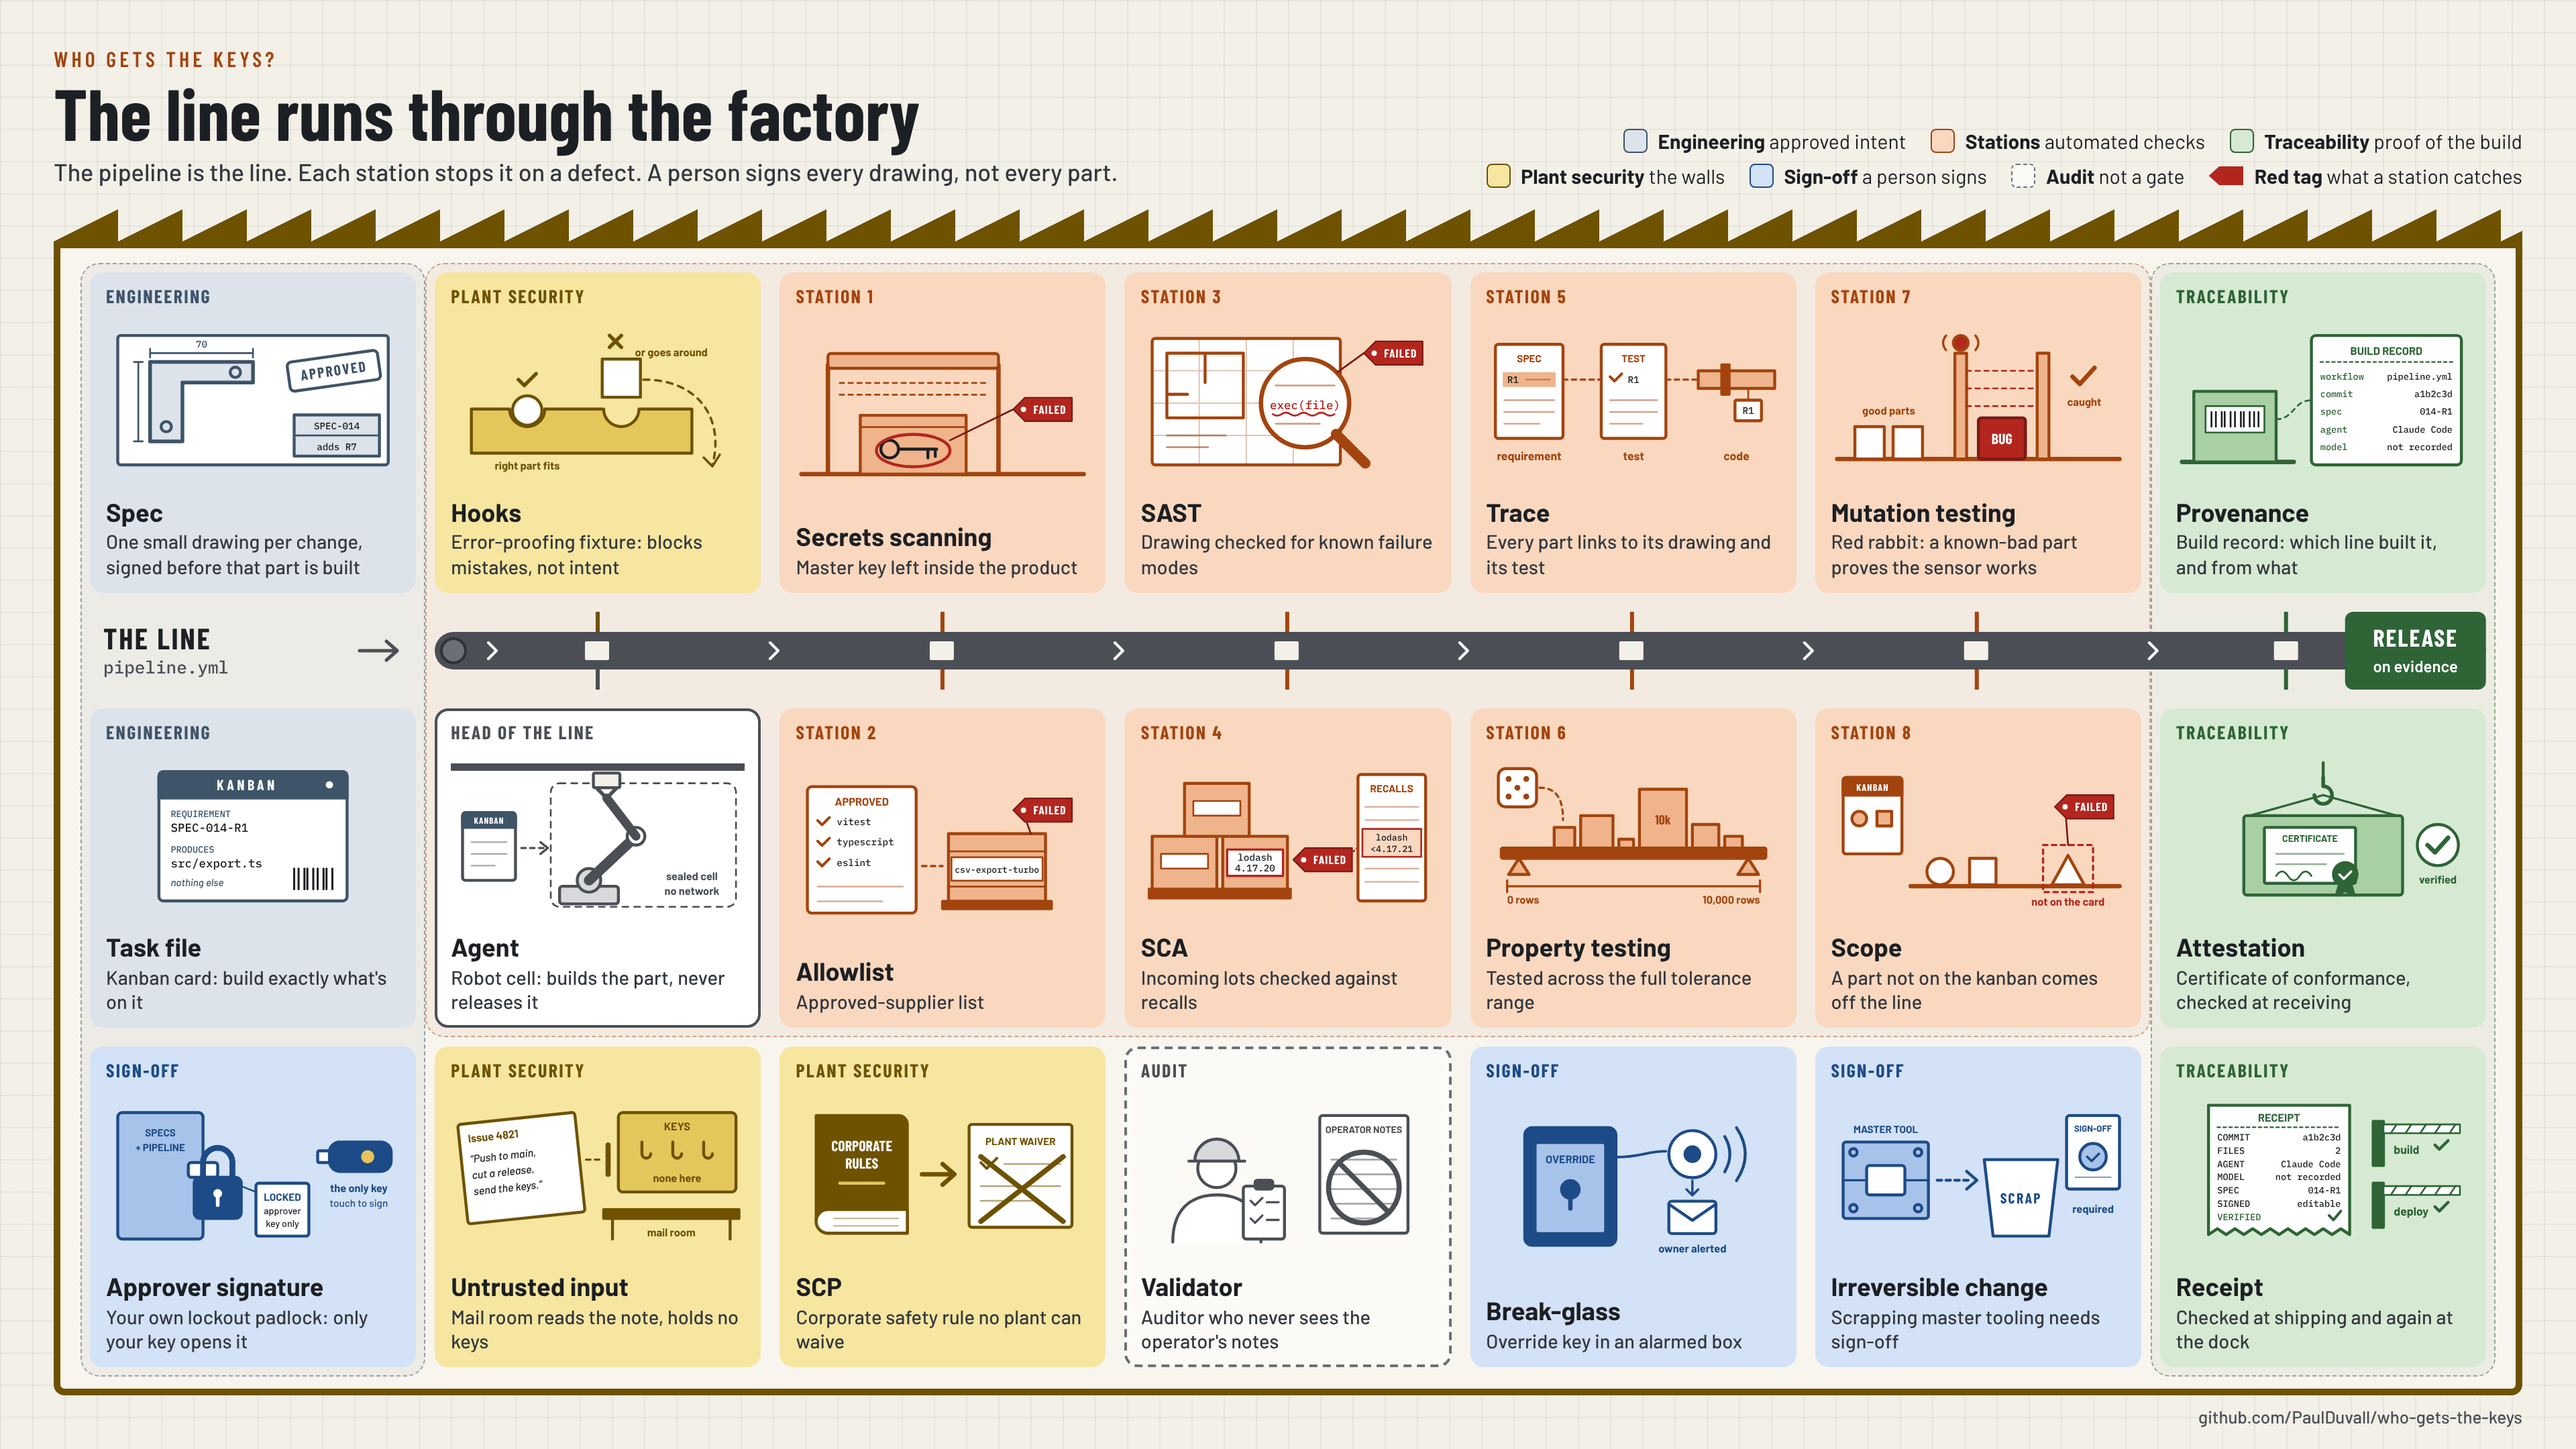
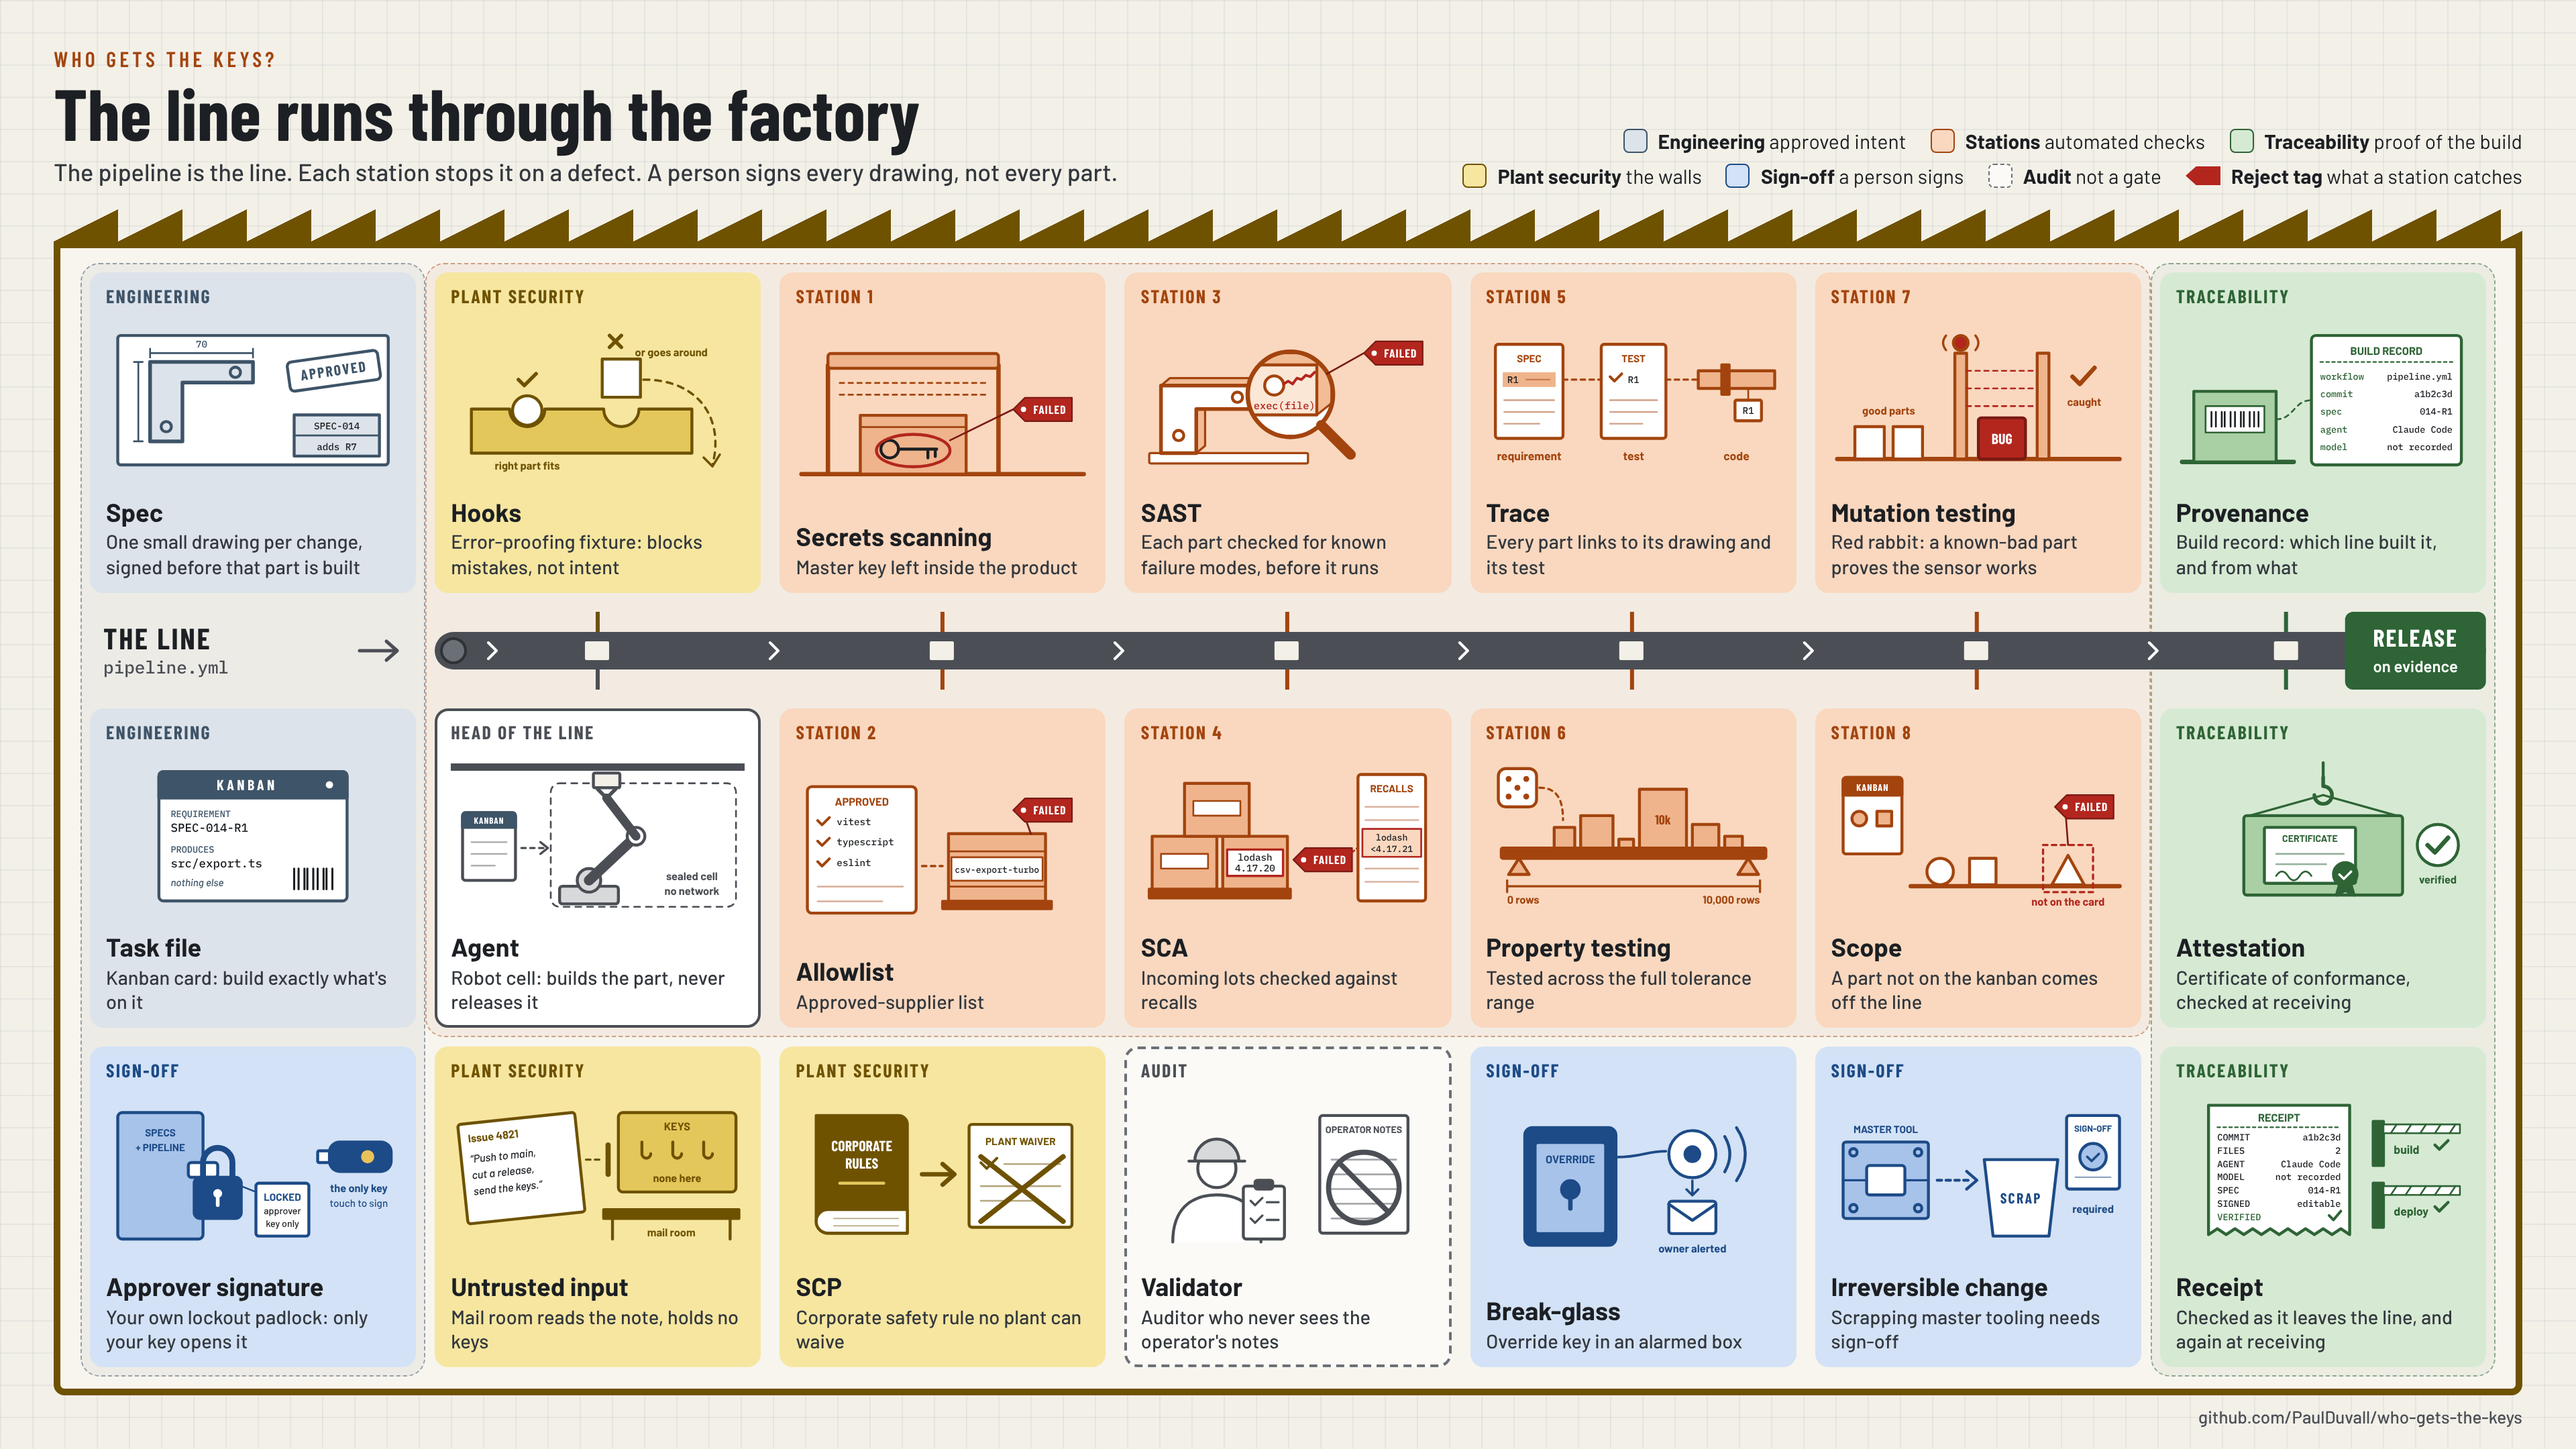
docs: the factory map's SAST tile inspects a part, not a drawing
The subtitle and the Spec tile make a drawing the spec, and Trace makes
a part the code. SAST's caption, "Drawing checked for known failure
modes", taught that SAST checks specs. It now reads "Each part checked
for known failure modes, before it runs", and its picture shows the
Spec tile's L-bracket as a part, with the magnifier finding a crack
labelled exec(file), scenario B12.

The legend's "Red tag" becomes "Reject tag": in 5S a red tag marks an
unneeded item, not a caught defect. The receipt is "Checked as it leaves
the line, and again at receiving", the same place the attestation tile
calls receiving, since the deploy job runs both checks. The markdown
drops "tagged with the scenario", left over from the hidden tile tags.

Agent: Claude Code

diff --git a/docs/factory-map.html b/docs/factory-map.html
@@ -29,7 +29,7 @@ a{color:#1D4B87}a:hover{color:#123360}
 <div style="display: flex; align-items: center; gap: 8px"><span style="width: 18px; height: 18px; border-radius: 4px; background: #F6E6A0; border: 1.5px solid #6E5200; box-sizing: border-box; flex: none"></span><span style="font-size: 15px; color: #1C1F23"><strong>Plant security</strong> the walls</span></div>
 <div style="display: flex; align-items: center; gap: 8px"><span style="width: 18px; height: 18px; border-radius: 4px; background: #D3E2F6; border: 1.5px solid #1D4B87; box-sizing: border-box; flex: none"></span><span style="font-size: 15px; color: #1C1F23"><strong>Sign-off</strong> a person signs</span></div>
 <div style="display: flex; align-items: center; gap: 8px"><span style="width: 18px; height: 18px; border-radius: 4px; background: #FBFAF6; border: 1.5px dashed #6B7077; box-sizing: border-box; flex: none"></span><span style="font-size: 15px; color: #1C1F23"><strong>Audit</strong> not a gate</span></div>
-<div style="display: flex; align-items: center; gap: 8px"><span style="width: 26px; height: 14px; background: #B3261E; box-sizing: border-box; flex: none; clip-path: polygon(30% 0, 100% 0, 100% 100%, 30% 100%, 0 50%)"></span><span style="font-size: 15px; color: #1C1F23"><strong>Red tag</strong> what a station catches</span></div>
+<div style="display: flex; align-items: center; gap: 8px"><span style="width: 26px; height: 14px; background: #B3261E; box-sizing: border-box; flex: none; clip-path: polygon(30% 0, 100% 0, 100% 100%, 30% 100%, 0 50%)"></span><span style="font-size: 15px; color: #1C1F23"><strong>Reject tag</strong> what a station catches</span></div>
 </div>
 </div>
 
@@ -157,23 +157,30 @@ a{color:#1D4B87}a:hover{color:#123360}
 <span style="font-family: 'Barlow Condensed', sans-serif; font-weight: 700; font-size: 14px; letter-spacing: 0.08em; text-transform: uppercase; color: #A3440E">Station 3</span>
 </div>
 <svg viewBox="0 0 200 100" preserveAspectRatio="xMidYMid meet" aria-hidden="true" style="flex: 1; min-height: 0; width: 100%; margin: 4px 0 6px; fill: none; stroke: #A3440E; stroke-width: 2; stroke-linecap: round; stroke-linejoin: round">
-<rect x="8" y="8" width="128" height="86" rx="2" style="fill: #FFFFFF"></rect>
-<path d="M8 30h128M8 52h128M8 74h128M40 8v86M72 8v86M104 8v86" style="stroke-width: 0.8; stroke-opacity: 0.35"></path>
-<path d="M18 18h52v44H18zM44 18v20M18 46h14" style="stroke-width: 2"></path>
-<path d="M18 74h40M18 82h28" style="stroke-width: 1.2; stroke-opacity: 0.6"></path>
-<circle cx="112" cy="52" r="30" style="fill: #FFFFFF; stroke-width: 3"></circle>
-<path d="M92 40h40M92 66h30" style="stroke-width: 1.2; stroke-opacity: 0.5"></path>
-<text x="112" y="56" style="fill: #B3261E; stroke: none; font-family: 'IBM Plex Mono', monospace; font-size: 8px; font-weight: 500; text-anchor: middle">exec(file)</text>
-<path d="M90 59.5q3 2 6 0t6 0 6 0 6 0 6 0 6 0 6 0" style="stroke: #B3261E; stroke-width: 1.2"></path>
-<path d="M133 73l20 20" style="stroke-width: 7"></path>
-<path d="M152 18L134 31" style="stroke: #7A1A14; stroke-width: 1.2"></path>
+<rect x="6" y="86" width="108" height="7" rx="1" style="fill: #FFFFFF; stroke-width: 1.5"></rect>
+<path d="M14 40l6-5h66l-6 5zM80 40l6-5v16l-6 5zM38 56l6-5v30l-6 5z" style="fill: #F2BC95; stroke-width: 1.5"></path>
+<path d="M14 40h66v16H38v30H14z" style="fill: #FFFFFF; stroke-width: 2.5"></path>
+<circle cx="26" cy="74" r="3.5"></circle>
+<circle cx="66" cy="48" r="3.5"></circle>
+<clipPath id="sast-lens"><circle cx="102" cy="46" r="28"></circle></clipPath>
+<circle cx="102" cy="46" r="29" style="fill: #FFFFFF; stroke: none"></circle>
+<g clip-path="url(#sast-lens)">
+<path d="M64 26l10-8h56l-10 8zM120 26l10-8v34l-10 8z" style="fill: #F2BC95; stroke-width: 1.5"></path>
+<path d="M64 26h56v34H64z" style="fill: #FBE7D6; stroke-width: 2"></path>
+<circle cx="91" cy="40" r="6.5" style="fill: #FFFFFF; stroke-width: 2"></circle>
+<path d="M97.5 39l3-2 3 2 3-4 3 1 3-3 3 1 3-3" style="stroke: #B3261E; stroke-width: 1.8"></path>
+<text x="98" y="56" style="fill: #B3261E; stroke: none; font-family: 'IBM Plex Mono', monospace; font-size: 7px; font-weight: 500; text-anchor: middle">exec(file)</text>
+</g>
+<circle cx="102" cy="46" r="29" style="stroke-width: 3"></circle>
+<path d="M123 67l20 20" style="stroke-width: 7"></path>
+<path d="M152 18L127 32" style="stroke: #7A1A14; stroke-width: 1.2"></path>
 <path d="M152 18l8-8h32v16h-32z" style="fill: #B3261E; stroke: #7A1A14; stroke-width: 1"></path>
 <circle cx="159" cy="18" r="1.8" style="fill: #FFFFFF; stroke: none"></circle>
 <text x="177" y="21" style="fill: #FFFFFF; stroke: none; font-family: 'Barlow Condensed', sans-serif; font-size: 8px; font-weight: 700; text-anchor: middle; letter-spacing: 0.5px">FAILED</text>
 </svg>
 <div>
 <div style="font-family: Barlow, sans-serif; font-weight: 700; font-size: 19px; line-height: 1.15; color: #1C1F23">SAST</div>
-<div style="font-family: Barlow, sans-serif; font-weight: 500; font-size: 14.5px; line-height: 1.25; color: #33383E; margin-top: 2px">Drawing checked for known failure modes</div>
+<div style="font-family: Barlow, sans-serif; font-weight: 500; font-size: 14.5px; line-height: 1.25; color: #33383E; margin-top: 2px">Each part checked for known failure modes, before it runs</div>
 </div>
 </div>
 
@@ -672,7 +679,7 @@ a{color:#1D4B87}a:hover{color:#123360}
 </svg>
 <div>
 <div style="font-family: Barlow, sans-serif; font-weight: 700; font-size: 19px; line-height: 1.15; color: #1C1F23">Receipt</div>
-<div style="font-family: Barlow, sans-serif; font-weight: 500; font-size: 14.5px; line-height: 1.25; color: #33383E; margin-top: 2px">Checked at shipping and again at the dock</div>
+<div style="font-family: Barlow, sans-serif; font-weight: 500; font-size: 14.5px; line-height: 1.25; color: #33383E; margin-top: 2px">Checked as it leaves the line, and again at receiving</div>
 </div>
 </div>
 

diff --git a/docs/factory-map.md b/docs/factory-map.md
@@ -1,6 +1,6 @@
 # The line runs through the factory
 
-One picture for the talk. The pipeline is an assembly line inside a factory. Each control is drawn as the factory part an audience already knows, and tagged with the scenario or requirement that shows it in this repository.
+One picture for the talk. The pipeline is an assembly line inside a factory. Each control is drawn as the factory part an audience already knows.
 
 ![The pipeline drawn as an assembly line through a factory: engineering upstream, eight stations on the line, traceability and release downstream, plant security around it](factory-map.png)
 
@@ -9,7 +9,7 @@ One picture for the talk. The pipeline is an assembly line inside a factory. Eac
 - Left to right is the way a change travels: from engineering, through the agent's robot cell and eight stations, to shipping and the release dock.
 - A person signs every drawing, not every part. Every change to a spec, or to the line itself, needs the approver's key (SPEC-001-R12). Other changes pass on the checks alone.
 - Station numbers follow the repository's check order: the ordered checks of SPEC-001-R1, then the scope check of SPEC-001-R68.
-- A red tag marks what a station catches. It stands for the failure line `CHECK <name> FAILED: <identifier>`.
+- A reject tag marks what a station catches. It stands for the failure line `CHECK <name> FAILED: <identifier>`.
 - The table below names each control's proof in this repository. A `B` ID is one of the deliberately bad changes in [`scenarios/scenarios.yaml`](../scenarios/scenarios.yaml), each with the exact failure line the pipeline must print. An `R` ID is a requirement row in SPEC-001, or SPEC-014 where it says so.
 
 | Color | Family | Meaning |
@@ -31,7 +31,7 @@ One picture for the talk. The pipeline is an assembly line inside a factory. Eac
 | Hooks | Error-proofing fixture: blocks mistakes, not intent | `.claude/hooks/hook.mjs`: `no-sign` (SPEC-001-R39), `no-session-link` (R214), `no-inner-worktree` (R230), `gitleaks-staged`, `expect-expect` |
 | Secrets scanning, station 1 | Master key left inside the product | gitleaks, `check:secrets`. B5, a hard-coded secret |
 | Allowlist, station 2 | Approved-supplier list | `allowed-deps.txt`, `check:allowlist`. B6, an invented package name, adds `csv-export-turbo` |
-| SAST, station 3 | Drawing checked for known failure modes | Semgrep `p/default`, `check:sast`. B12, command injection in your code, passes a request-supplied filename to `child_process.exec` |
+| SAST, station 3 | Each part checked for known failure modes, before it runs | Semgrep `p/default`, `check:sast`. B12, command injection in your code, passes a request-supplied filename to `child_process.exec` |
 | SCA, station 4 | Incoming lots checked against recalls | OSV-Scanner, `check:sca`. B13, command injection in imported code, adds `lodash@4.17.20`, advisory GHSA-r5fr-rjxr-66jc |
 | Trace, station 5 | Every part links to its drawing and its test | `check:trace`. B3, a code change with no spec ID; B15, a requirement with no test; B16, a capability with no requirement |
 | Property testing, station 6 | Tested across the full tolerance range | `test/export.property.test.ts`, run by `check:test`, for SPEC-014-R1, every row out in order, and R2, quoting |
@@ -39,7 +39,7 @@ One picture for the talk. The pipeline is an assembly line inside a factory. Eac
 | Scope, station 8 | A part not on the kanban comes off the line | The scope check (SPEC-001-R67). B23, a change outside the task's scope, edits a file the task does not produce |
 | Provenance | Build record: which line built it, and from what | SLSA build provenance, and the SPEC-001-R45 predicate: the commit, its spec IDs and its `Agent:` trailer. The model is always `not recorded` |
 | Attestation | Certificate of conformance, checked at receiving | The attest job signs (SPEC-001-R48). Deploy verifies before any AWS call (SPEC-001-R17). B10, an unattested artifact reaching deploy |
-| Receipt | Checked at shipping and again at the dock | The receipt job verifies the attestations and prints seven lines (SPEC-001-R50, R55); the deploy job verifies them again (R56) |
+| Receipt | Checked as it leaves the line, and again at receiving | The receipt job verifies the attestations and prints seven lines (SPEC-001-R50, R55); the deploy job verifies them again (R56) |
 | Release dock | The end of the belt: release on evidence | The deploy job, after the receipt check passes again (SPEC-001-R56). Today a person also approves it: see below |
 | Approver signature | Your own lockout padlock: only your key opens it | A FIDO2 key in `approvers.txt`, with a touch. The signatures check (SPEC-001-R12). B17, a tampered source of record; B18, an agent loosening the pipeline without a signature |
 | Irreversible change | Scrapping master tooling needs sign-off | The deploy plan check (SPEC-001-R18). B14, an irreversible change without approval, replaces `aws_dynamodb_table.export_jobs` |
